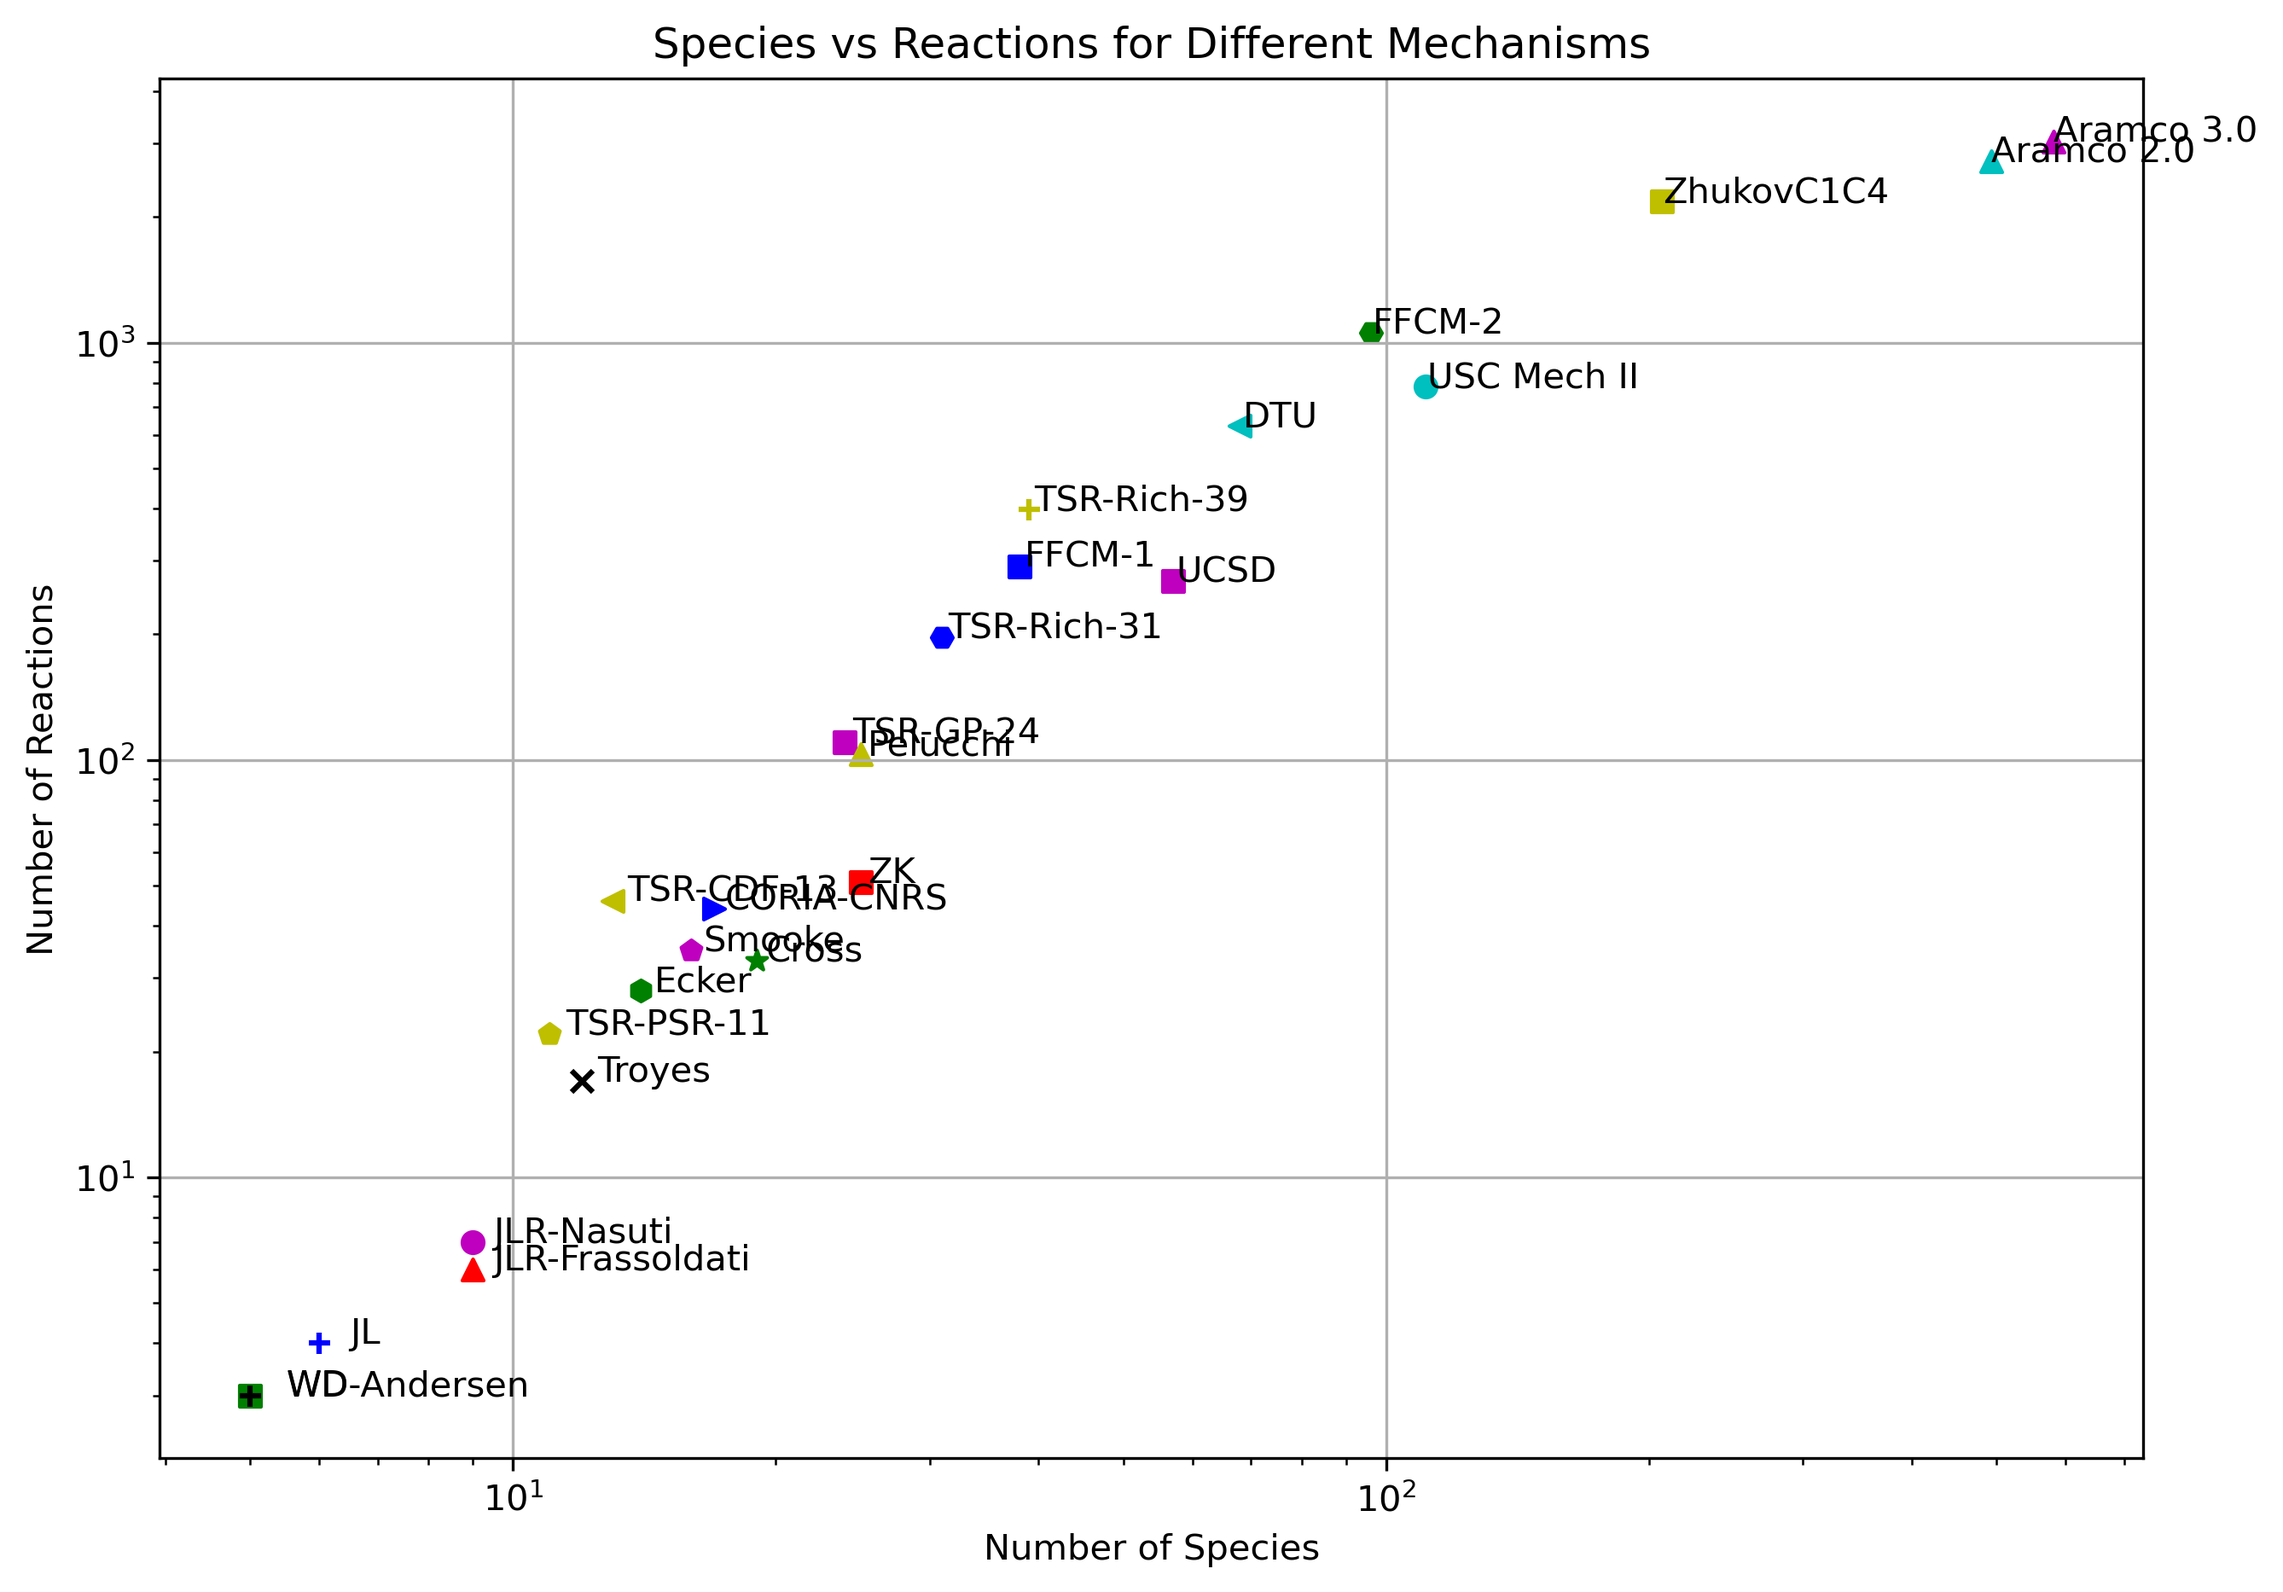
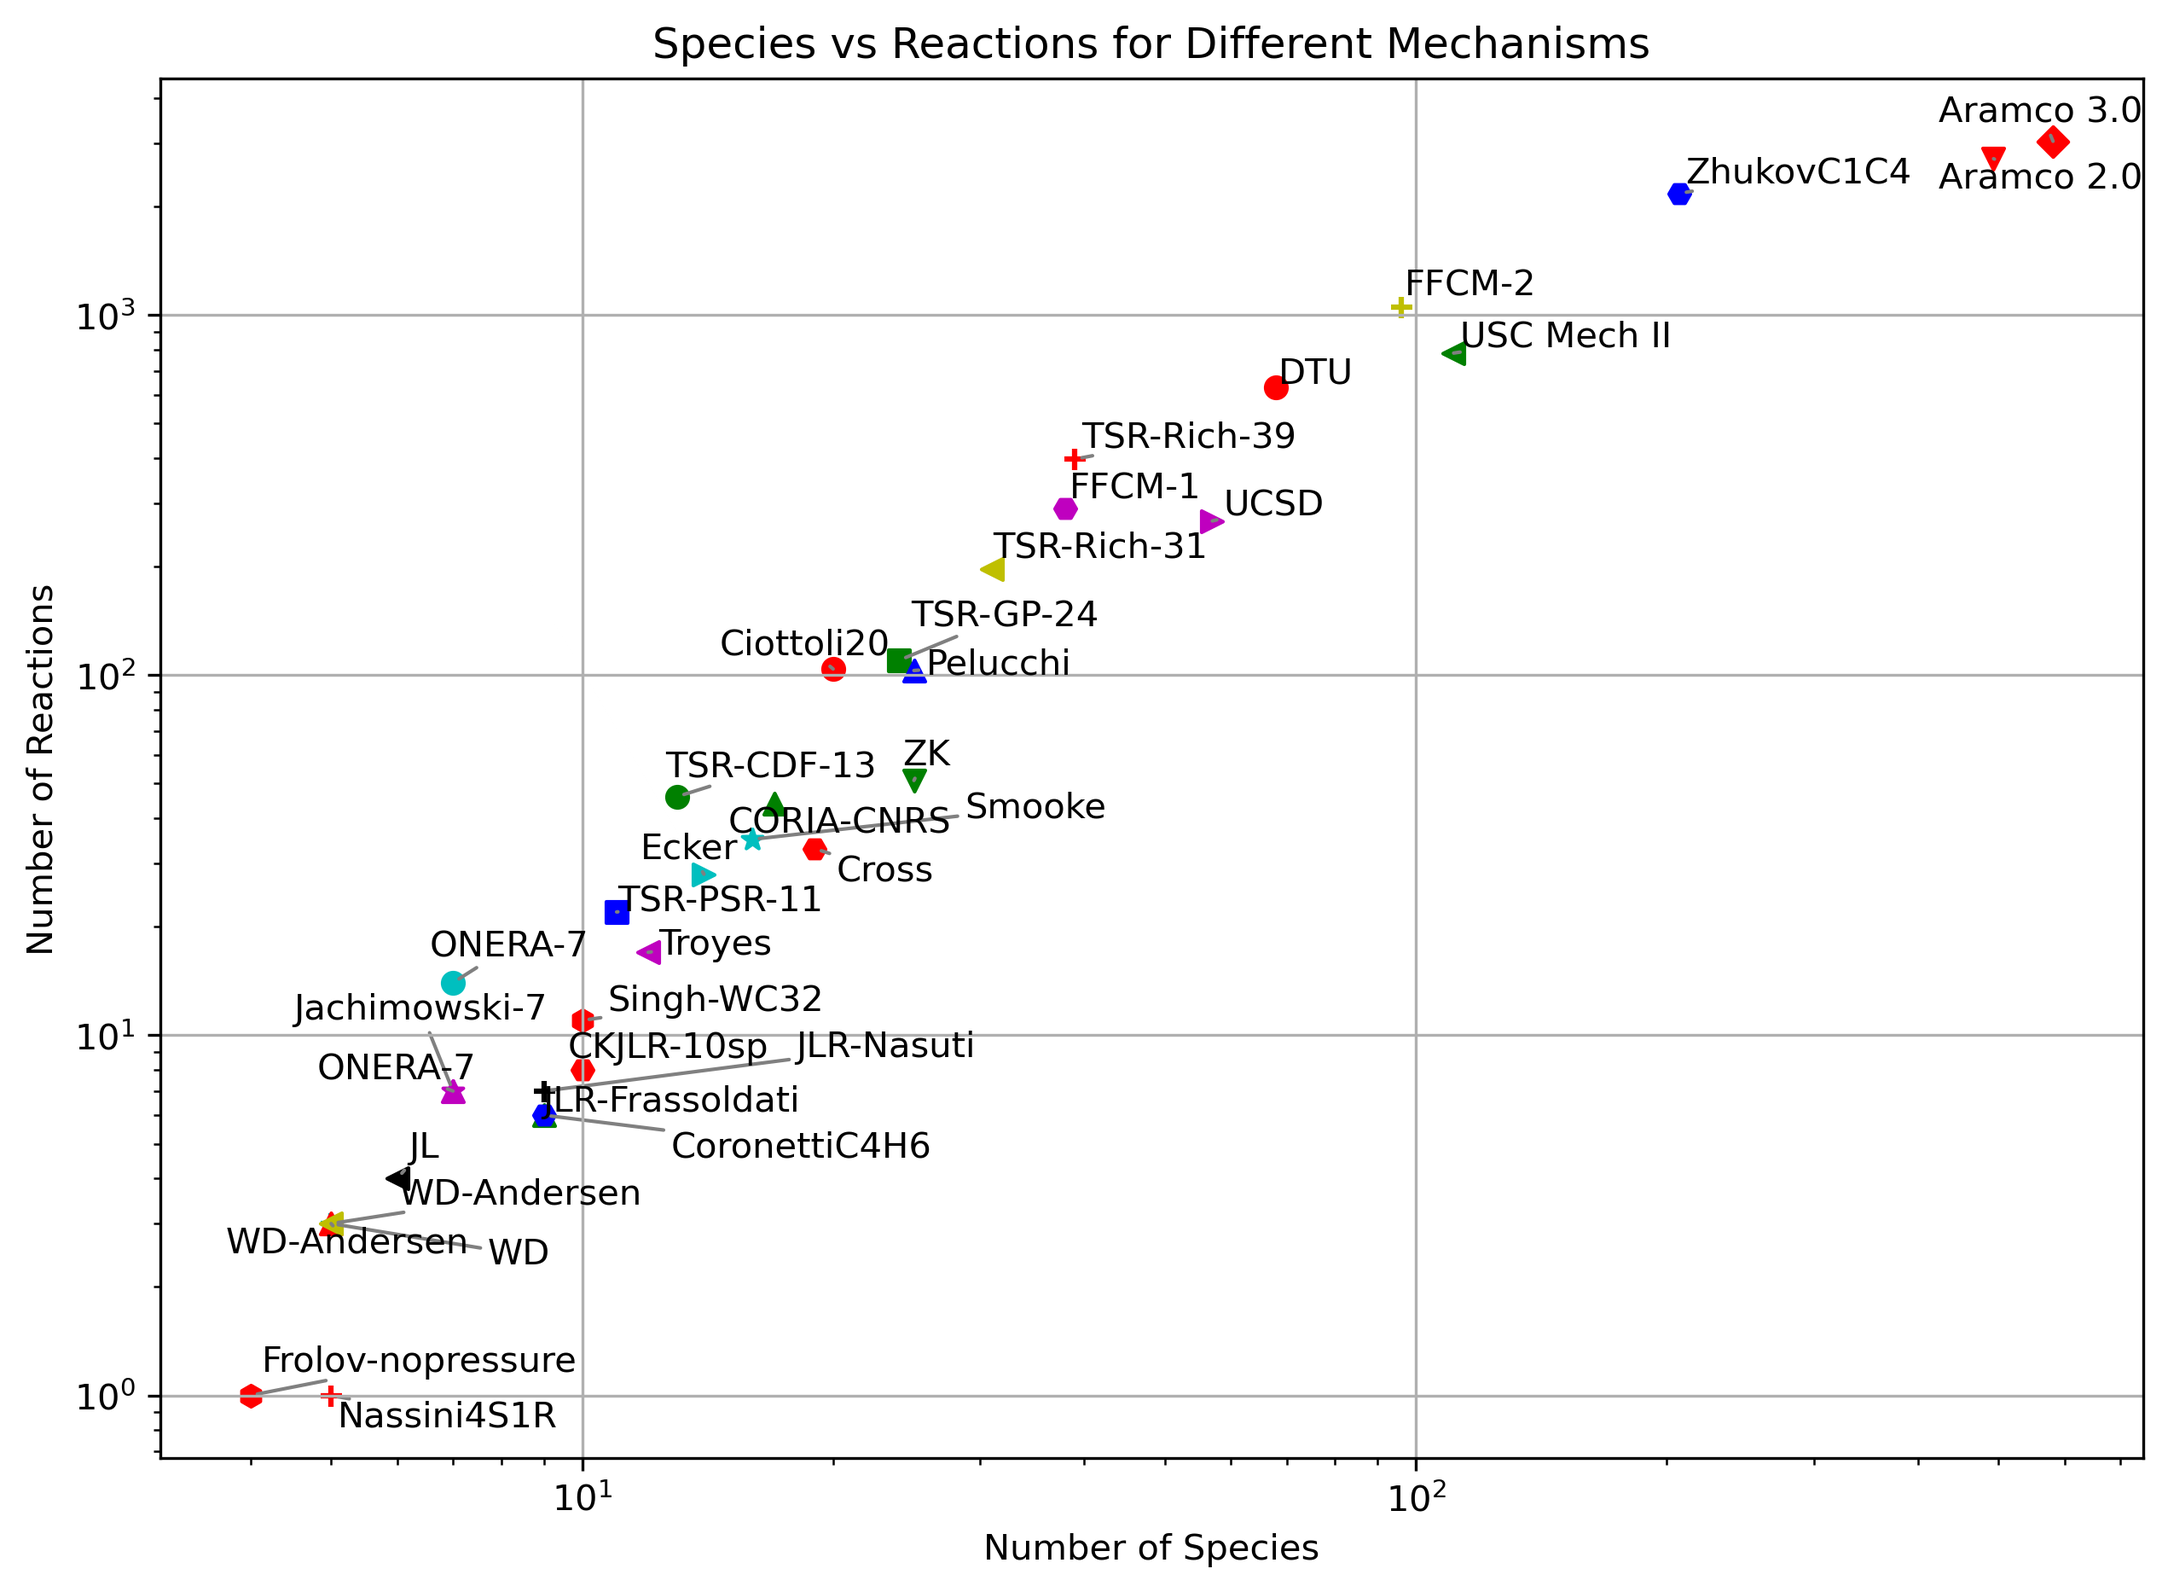
update chemistry database

diff --git a/database/Chemistry/resume.py b/database/Chemistry/resume.py
@@ -2,6 +2,8 @@ import os
 import cantera as ct
 import matplotlib.pyplot as plt
 import random, sys
+from adjustText import adjust_text
+
 masterpath = os.environ.get("ATLASDIR")
 if masterpath is None:
     print("ATLAS environment variable is not set.")
@@ -12,7 +14,7 @@ ct.add_directory(datapath+'Chemistry')
 folder_path = datapath+'Chemistry'
 
 # Mechanisms to exclude
-exclude_mechs = ['JLR-frassoldati-ct.yaml', 'JLR-nasuti-ct.yaml', 'glorian.yaml']
+exclude_mechs = ['JLR-frassoldati-ct.yaml', 'JLR-nasuti-ct.yaml']
 
 # Initialize lists to store data
 species_counts = []
@@ -48,18 +50,22 @@ for file_name in os.listdir(folder_path):
             print(f"Error loading {file_name}: {e}")
 
 # Plotting
-plt.figure(figsize=(10, 7))
 
 # Generate random symbols and colors for each mechanism
 markers = ['o', 's', 'D', '^', 'v', '<', '>', 'p', '*', 'h', 'H', 'x', '+']
 colors = ['b', 'g', 'r', 'c', 'm', 'y', 'k']
 
+plt.figure(figsize=(10, 7))
+texts = []
+
 for i in range(len(mechanism_names)):
     marker = random.choice(markers)
     color = random.choice(colors)
     
-    plt.scatter(species_counts[i], reaction_counts[i], marker=marker, color=color, label=mechanism_names[i])
-    plt.text(species_counts[i] + 0.5, reaction_counts[i], mechanism_names[i], fontsize=10)
+    plt.scatter(species_counts[i], reaction_counts[i], marker=marker, color=color)
+    
+    # Store text objects for later adjustment
+    texts.append(plt.text(species_counts[i], reaction_counts[i], mechanism_names[i], fontsize=10))
 
 # Labels and title
 plt.xlabel('Number of Species')
@@ -69,8 +75,9 @@ plt.grid(True)
 plt.xscale('log')
 plt.yscale('log')
 
-# Save the figure
-plt.savefig('resume.png', dpi=300, bbox_inches='tight')
+# Automatically adjust text to avoid overlaps
+adjust_text(texts, arrowprops=dict(arrowstyle='-', color='gray'))
 
-# Display the plot
+# Save and show
+plt.savefig('resume.png', dpi=300, bbox_inches='tight')
 plt.show()
